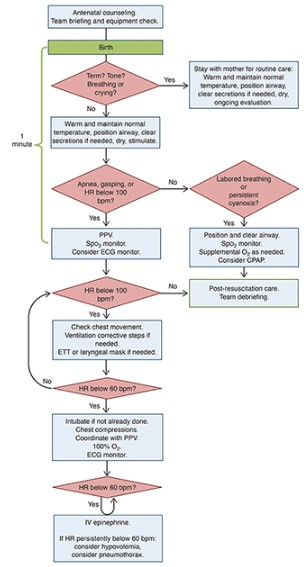
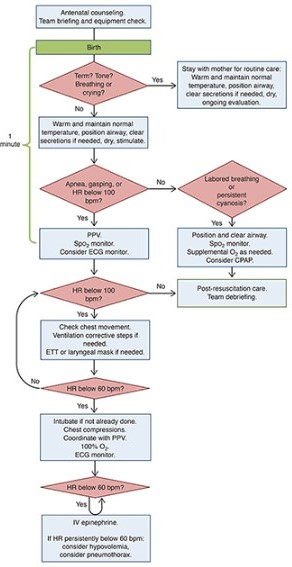
Changed NRP Flowchart

diff --git a/lib/tools/NRPCodedDiagram.dart b/lib/tools/NRPCodedDiagram.dart
@@ -7,29 +7,81 @@ class NRPCodedDiagram extends StatelessWidget {
   Widget build(BuildContext context) {
     return Material(
         child: SafeArea(
-          child: Padding(
-            padding: EdgeInsets.all(40),
-            child: Column (
-                children: [
-                  Row(
-                    mainAxisAlignment: MainAxisAlignment.start,
+          child: Column(
+          children: [
+            Container(
+                width: double.infinity,
+                color: Colors.white, //Color(0xfff6f6f6),
+                padding: EdgeInsets.fromLTRB(30,20,30,20),
+                child: Expanded(
+                  child: Row(
+                    mainAxisAlignment: MainAxisAlignment.spaceBetween,
+                    crossAxisAlignment: CrossAxisAlignment.center,
                     children: [
-                      Align(alignment: Alignment.centerLeft, child: GestureDetector(child: Icon(Icons.arrow_circle_left, size: 32, color: Color(0xFF7B212D)), onTap: Navigator.of(context).pop)),
-                      SizedBox(width: 20),
-                      Text("NRP Flow Chart", style: TextStyle(fontWeight: FontWeight.bold, fontSize: 32)),
+                      Column(
+                        crossAxisAlignment: CrossAxisAlignment.start,
+                        children: [
+                          Text(
+                              "NRP Flowchart",
+                              style: TextStyle(
+                                  color: Colors.black,
+                                  fontSize: 22,
+                                  fontWeight: FontWeight.bold)),
+                          // Text(completion_percent, style: TextStyle(color: Colors.black, fontSize: 14,),),
+                        ],
+                      ),
+                      Row(
+                        children: [
+                          IconButton(
+                            color: Colors.black,
+                            padding: EdgeInsets.zero,
+                            constraints: BoxConstraints(),
+                            icon: const Icon(Icons.info_outline_rounded),
+                            onPressed: () => {
+                              Navigator.of(context).pop(),
+                            }
+                          ),
+                          const SizedBox(width: 30),
+                          IconButton(
+                              color: Colors.black,
+                              padding: EdgeInsets.zero,
+                              constraints: BoxConstraints(),
+                              icon: const Icon(Icons.close_rounded),
+                              onPressed: () => {
+                                Navigator.of(context).pop(),
+                              }
+                          ),
+                        ],
+                      ),
+
                     ],
                   ),
-                  InteractiveViewer(
-                    minScale: 0.1,
-                    maxScale: 1.6,
-                    child: Image(
-                                height: 700,
-                                image: AssetImage('assets/CroppedFlow.jpg'),
-                              ),
-                  ),
-                ],
+                ),
               ),
-          ),
+            SingleChildScrollView( child:
+            Container (
+                child:
+                    InteractiveViewer(
+                    minScale: 0.1,
+                    maxScale: 2.2,
+                    child:
+                    Container(
+                      width: MediaQuery.of(context).size.width*.95,
+                      height: MediaQuery.of(context).size.height*.8,
+                      decoration: 
+                      BoxDecoration(
+                        image: DecorationImage(
+                          fit: BoxFit.fill,
+                          image: AssetImage('assets/NRPFlowChart.jpg'),
+                        ),
+                      ),
+                    )
+                    )
+                
+              ),
+            )
+          ] 
+          )
         ),
     );
   }
